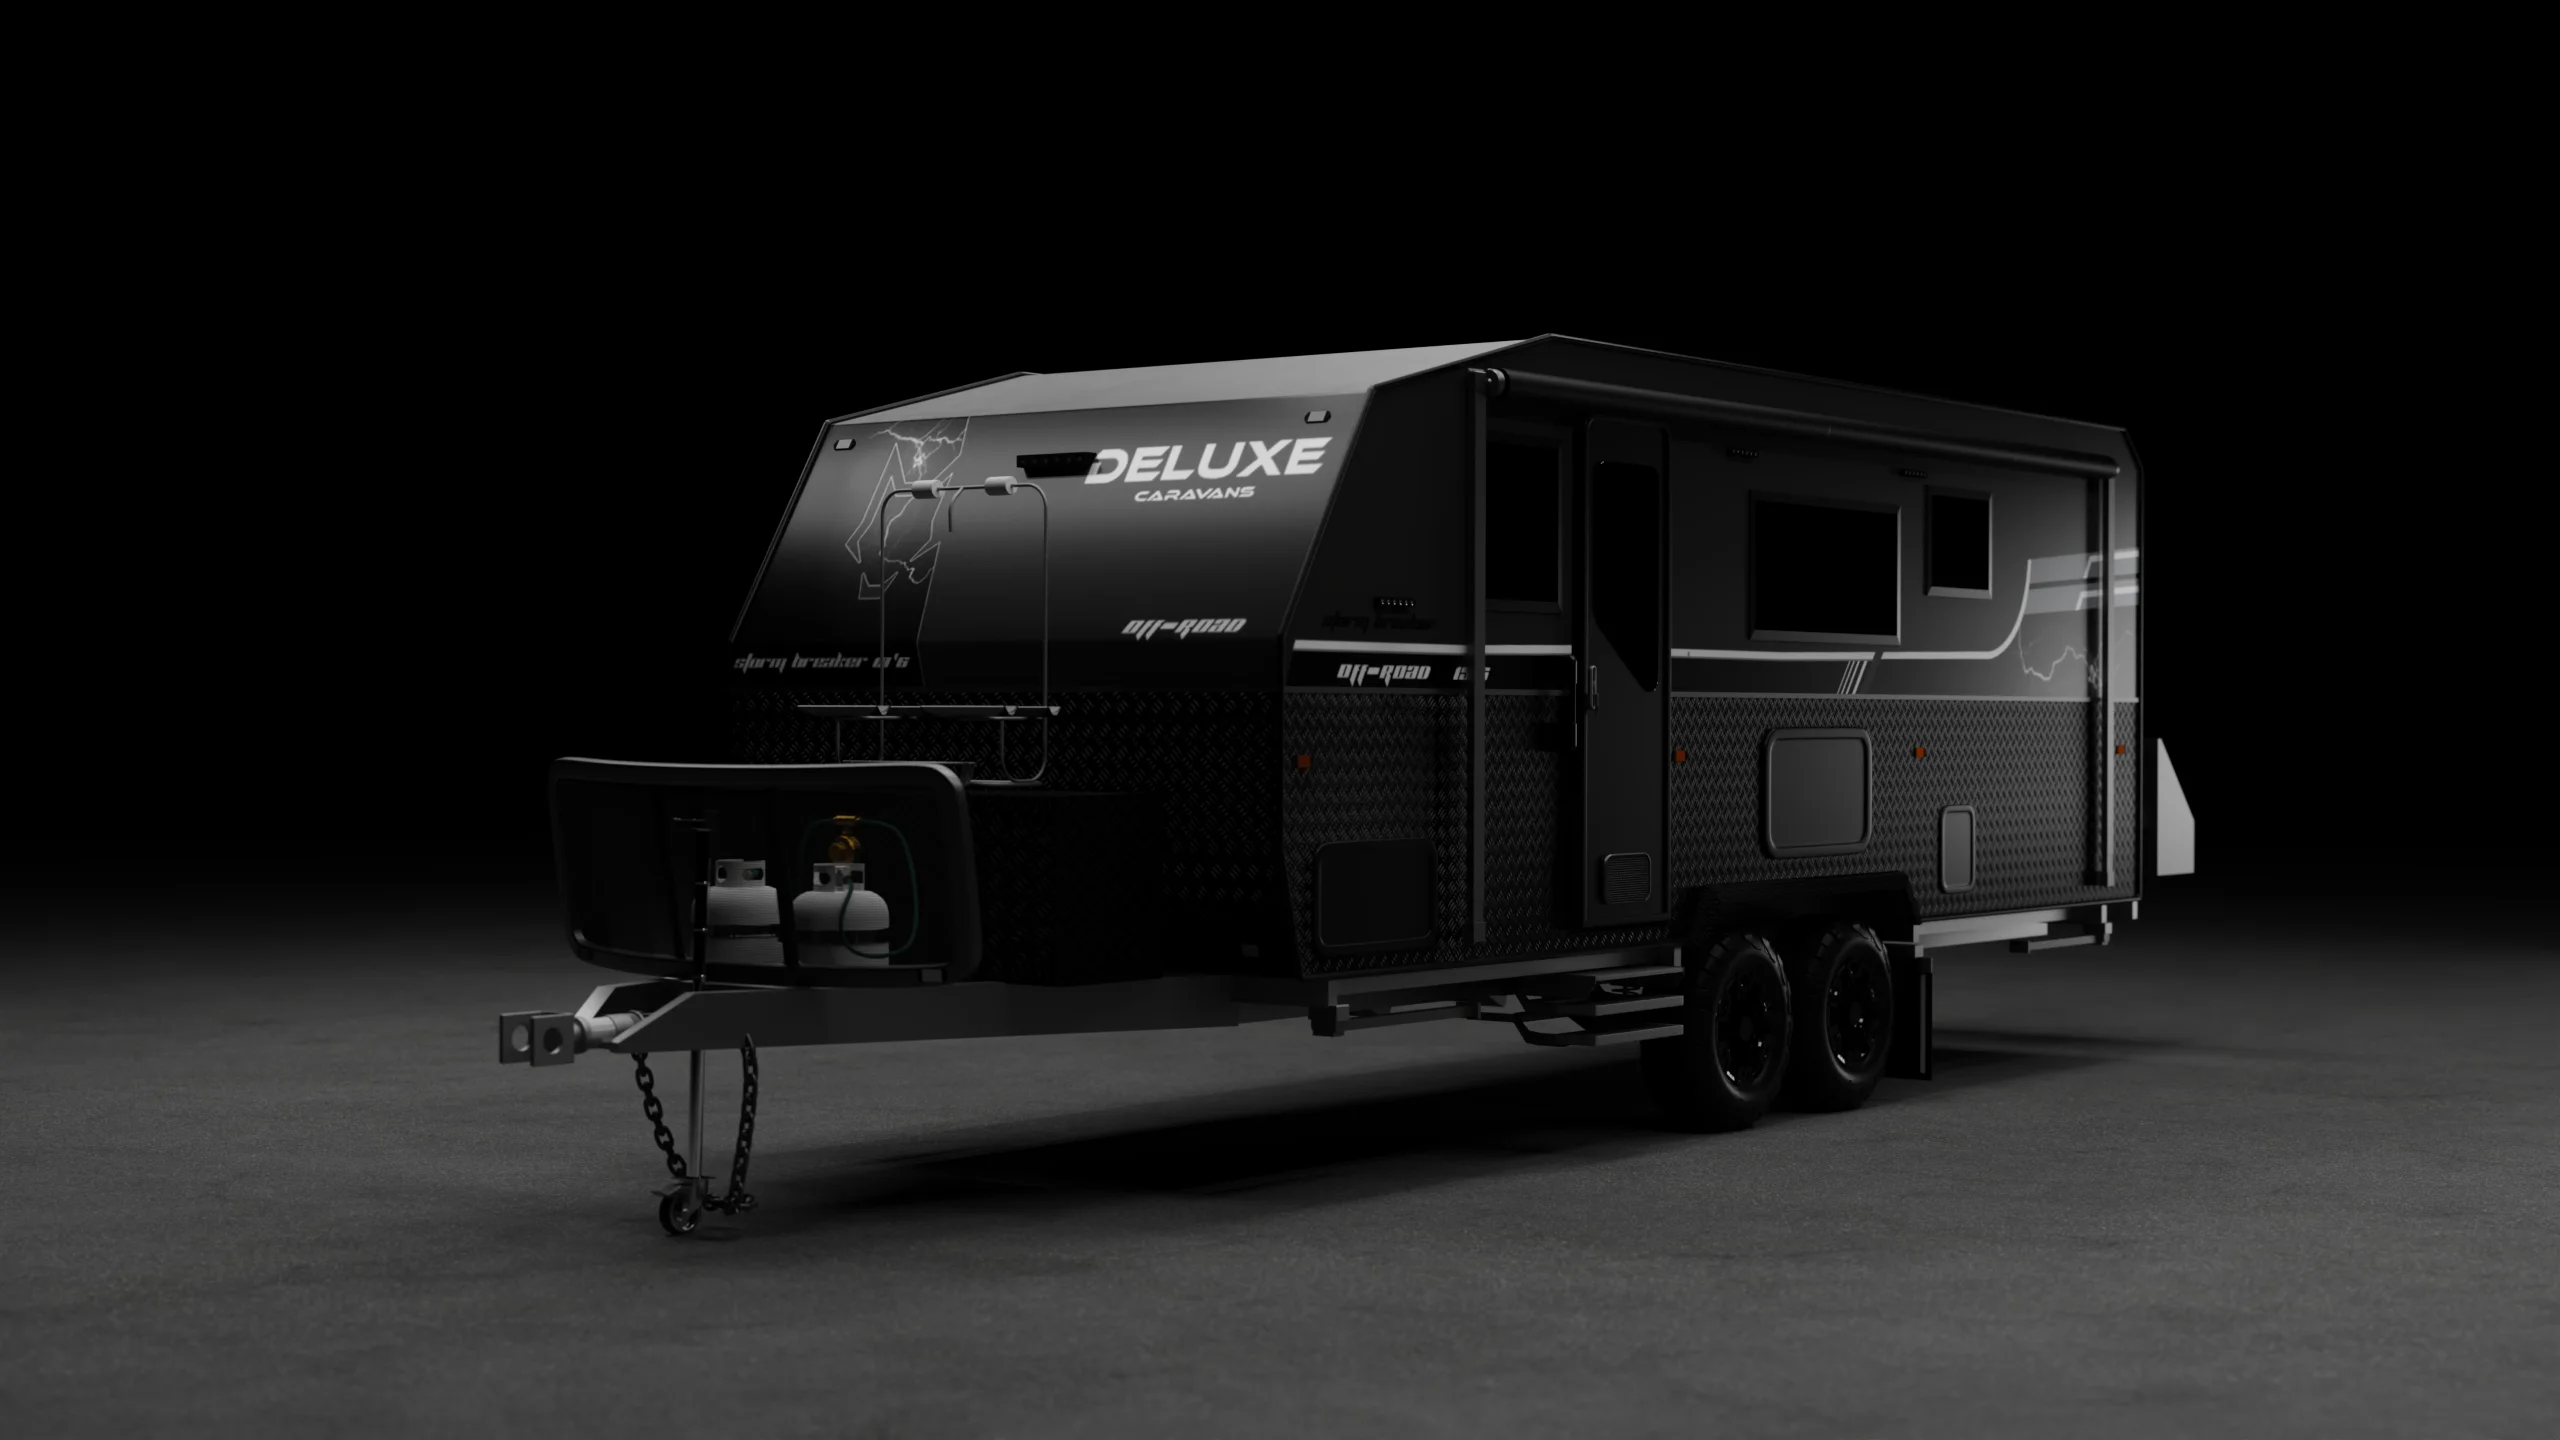
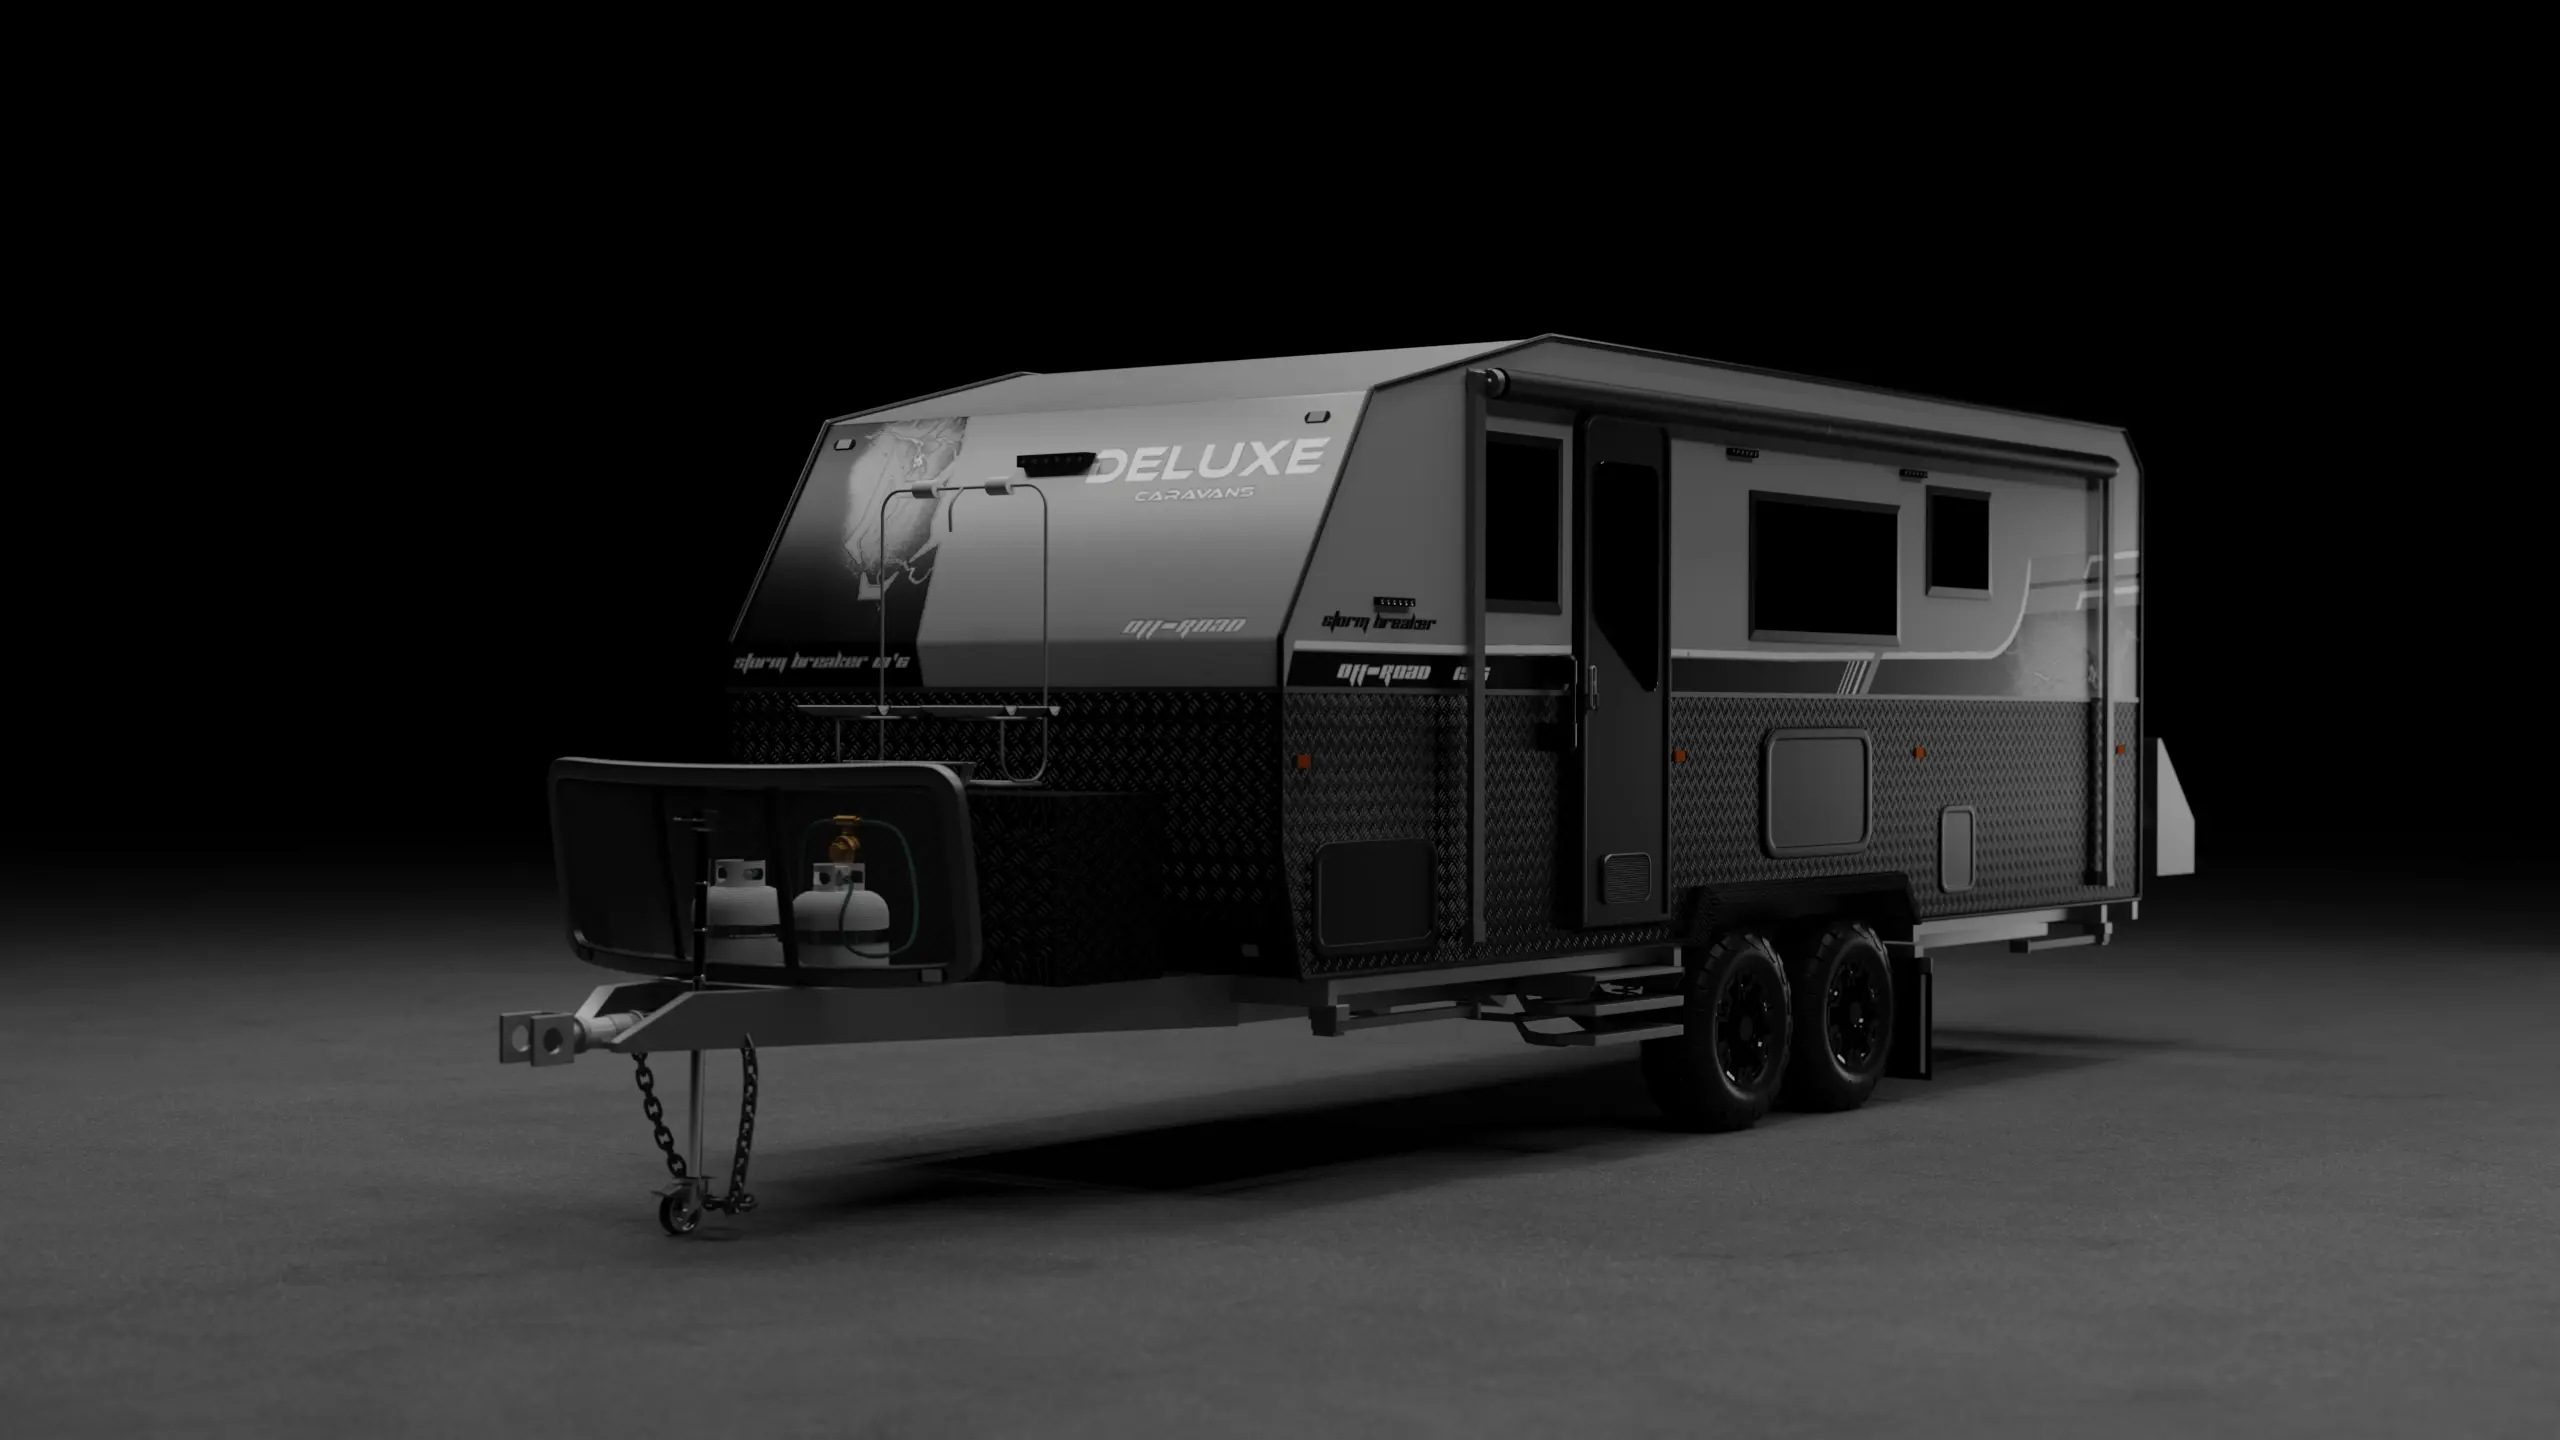
more changes

Changed region(s): [[0.3125, 0.2188, 0.8438, 0.5]]

diff --git a/src/components/products/Stormbreaker18.jsx b/src/components/products/Stormbreaker18.jsx
@@ -5,7 +5,7 @@ import "../home/homecomponents/HomeComponent.css";
 import Strom18inside from "../products/SlideShows/Stormbreaker18inside";
 import { gsap } from "gsap";
 import Storm18specs from "./Specsmenu/Specs18";
-import SB216img from "../../assets/Product renders/SB216Exterior.webp";
+import SB216img from "../../assets/Product renders/SB186Exterior.webp";
 
 function Stormbreaker21() {
   const containerRef = useRef(null);
@@ -84,7 +84,7 @@ function Stormbreaker21() {
           </div>
           <div className="image">
             <iframe
-              src="https://esceneyf.sirv.com/Spins/test2/test2.spin"
+              src="https://esceneyf.sirv.com/Spins/18/18.spin" 
               width="1000px"
               height="1000px"
               frameborder="0"

diff --git a/src/components/products/SlideShows/Stormbreaker18inside.jsx b/src/components/products/SlideShows/Stormbreaker18inside.jsx
@@ -2,7 +2,7 @@ import React, { useState, useEffect } from "react";
 import "./Stormbreaker21inside.css";
 
 //exterior
-import SB216Ext from "../../../assets/Product renders/SB216Exterior.webp";
+import SB216Ext from "../../../assets/Product renders/SB186Exterior.webp";
 import ex181 from "../../../assets/18/18 ex 1.webp";
 import ex182 from "../../../assets/18/18 ex 2.webp";
 import ex183 from "../../../assets/18/18 ex 3.webp";
